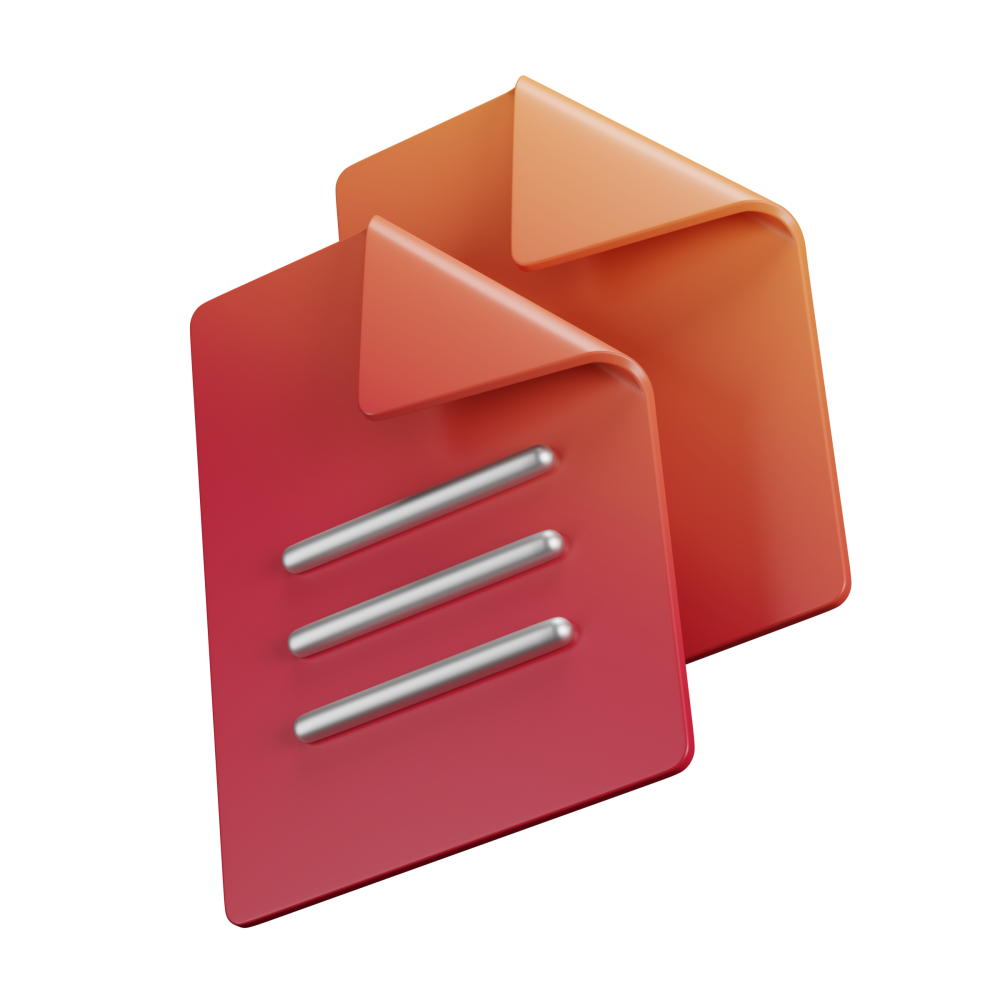
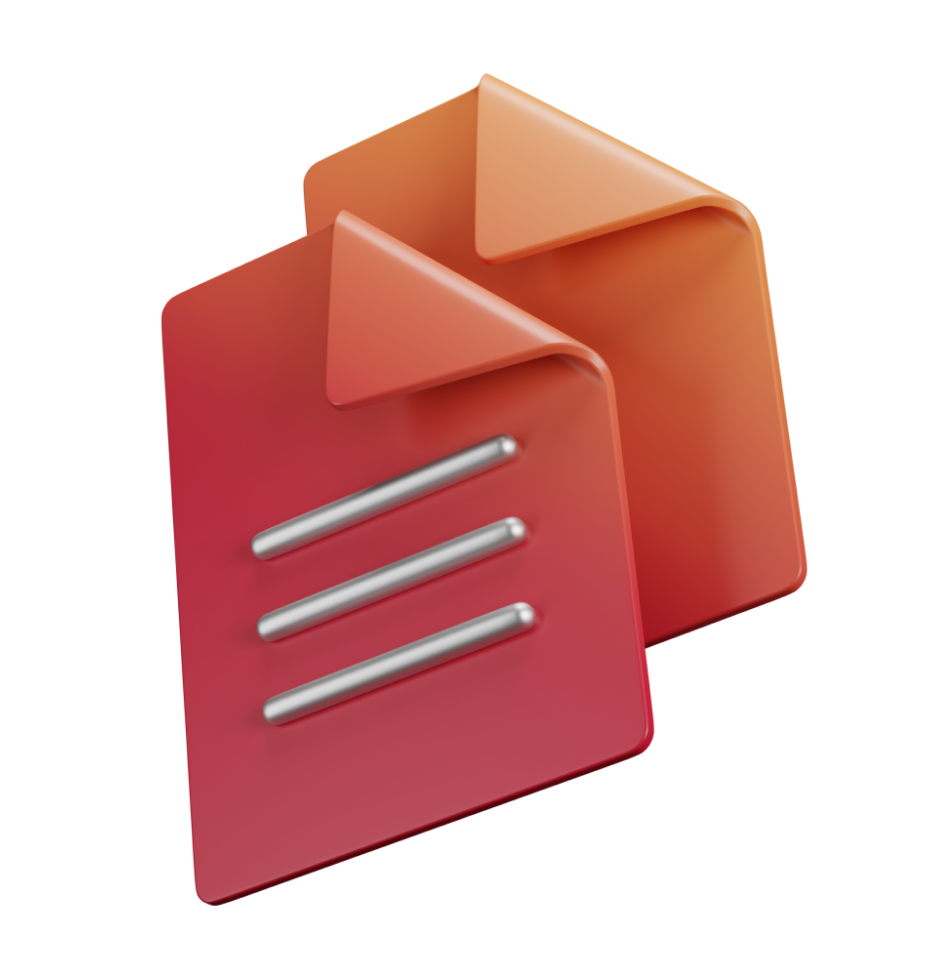
fix: change file name

diff --git a/app/result/page.tsx b/app/result/page.tsx
@@ -1,7 +1,7 @@
 "use client";
 import Container from "@/components/Container";
 import Image from "next/image";
-import Paper from "@/public/paper.png";
+import Document from "@/public/document.png";
 import { useRecoilState } from "recoil";
 import { main } from "@/lib/recoil";
 import Title from "@/components/Title";
@@ -17,7 +17,7 @@ const Result = () => {
   );
   return (
     <Container center>
-      <Image src={Paper} alt="document" width={250} />
+      <Image src={Document} alt="document" width={250} />
       <Title center>
         {state.name}님의 퍼스널 브랜딩 페이지가 완성되었어요!
       </Title>
